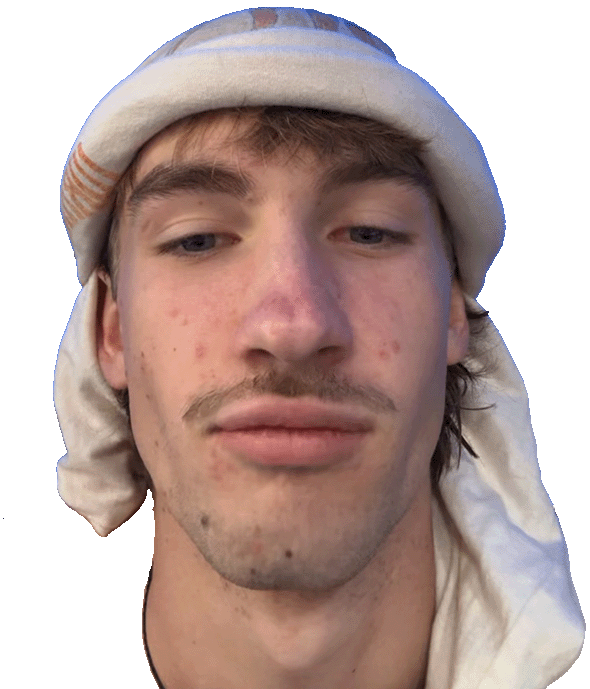
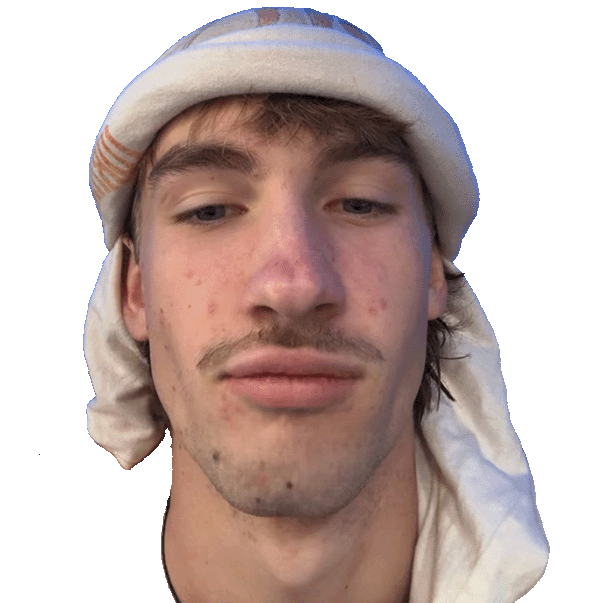
added and sized image

diff --git a/components/Photo.jsx b/components/Photo.jsx
@@ -12,13 +12,14 @@ const Photo = () => {
                 transition: {delay: 2, duration: 0.4, ease:"easeIn"},
             }}
         >
+            {/* image */}
             <motion.div 
                 initial={{opacity: 0}} 
                 animate={{
                     opacity: 1, 
                     transition: {delay: 2.4, duration: 0.4, ease:"easeInOut"},
                 }}
-                className="w-[298px] h-[298px] xl:w-[498px] xl:h-[498px] mix-blend-lighten"
+                className="w-[298px] h-[298px] xl:w-[498px] xl:h-[498px] mix-blend-lighten absolute"
             >
                 <Image
                     src="/assets/photo.png" 
@@ -29,6 +30,34 @@ const Photo = () => {
                     className="rounded-full object-contain"
                 />
             </motion.div>
+
+            {/* circle */}
+            <motion.svg 
+                className="w-[300px] xl:w-[506px] h-[300px] xl:h-[506px]" 
+                fill="transparent"
+                viewBox="0 0 506 506"
+                xmlns={"http://www.w3.org/2000/svg"}
+            >
+                <motion.circle 
+                    cx="253" 
+                    cy="253" 
+                    r="250" 
+                    stroke="#00ff99" 
+                    strokeWidth="4"
+                    strokeLinecap="round"
+                    strokeLinejoin="round"
+                    initial={{ strokeDasharray: "24 10 0 0"}}
+                    animate={{
+                        strokeDasharray: ["15 120 25 25", "16 25 92 72", "4 250 22 22"],
+                        rotate: [120, 360],
+                    }}
+                    transition={{
+                        duration: 20,
+                        repeat: Infinity,
+                        repeatType: "reverse",
+                    }}
+                />
+            </motion.svg>
         </motion.div>
     </div>
   )

diff --git a/app/page.jsx b/app/page.jsx
@@ -12,13 +12,13 @@ const Home = () => {
       <div className="container mx-auto h-full">
         <div className="flex flex-col xl:flex-row items-center justify-between xl:pt-8 xl:pb-24">
           {/* text */}
-          <div className="text-center xl:text-left">
-            <span className="text-xl ">Software Developer</span>
+          <div className="text-center xl:text-left order-2 xl:order-none">
+            <span className="text-xl ">Ubermensch</span>
             <h1 className="h1 mb-6">
               Hello I'm <br /> <span className="text-accent">Stirling Donaldson</span>
             </h1>
             <p className="max-w-[500px] mb-9 text-white/80">
-              I excel at crafting elegant digital experiences and I am proficient in various programming languages and technologies.
+              What do I do? Web-development, SEO, UX-design. Beautifully, competently, and creatively.
             </p>
             {/* button and socials*/}
             <div className="flex flex-col xl:flex-row items-center gap-8">
@@ -36,7 +36,7 @@ const Home = () => {
             </div>
           </div>
           {/* photo */}
-          <div>
+          <div className="order-1 xl:order-none mb-8 xl:mb-0">
             <Photo />
           </div>
         </div>
